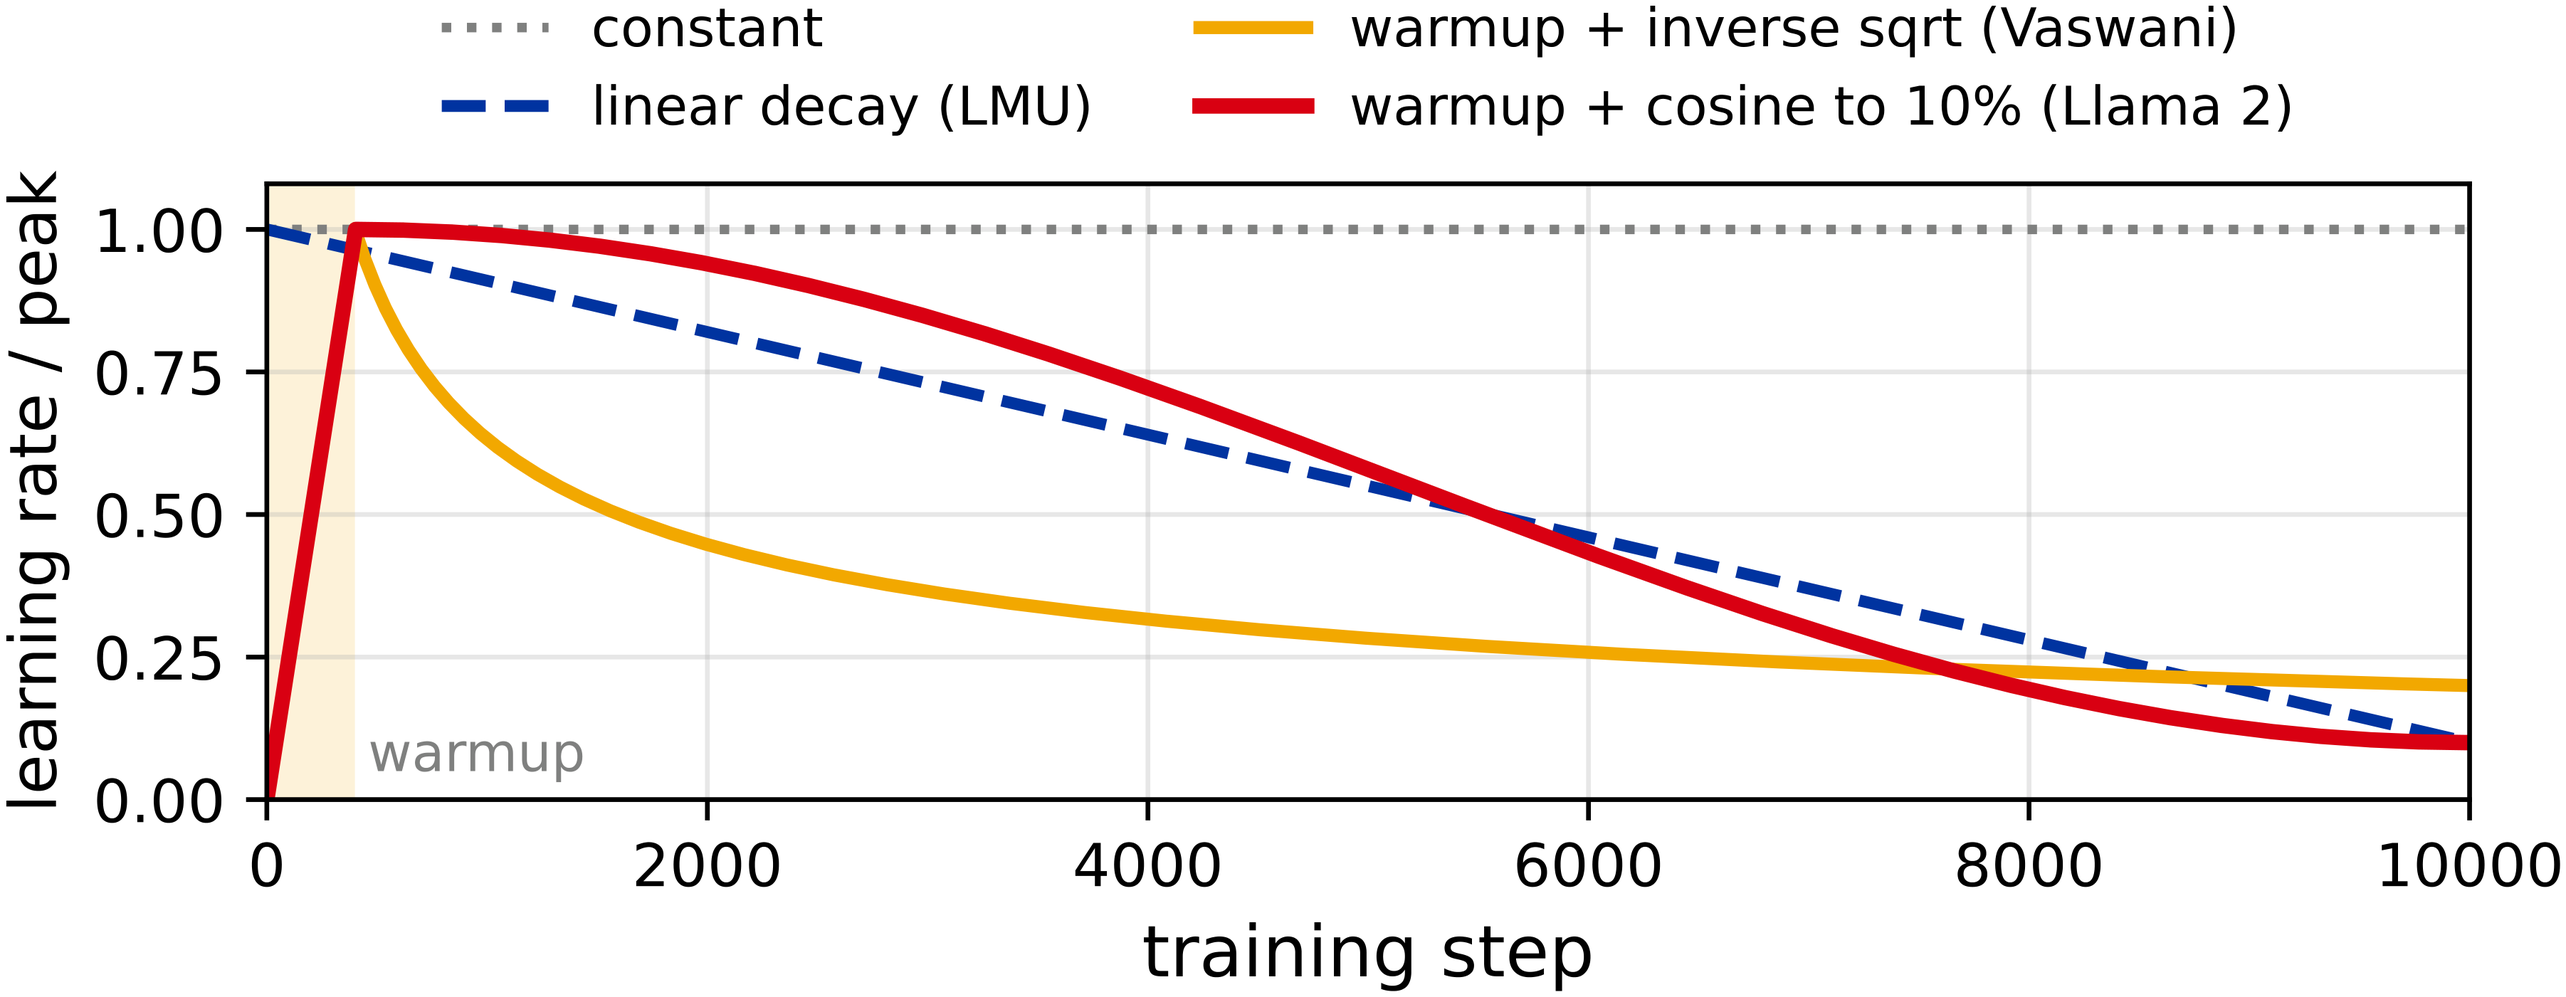
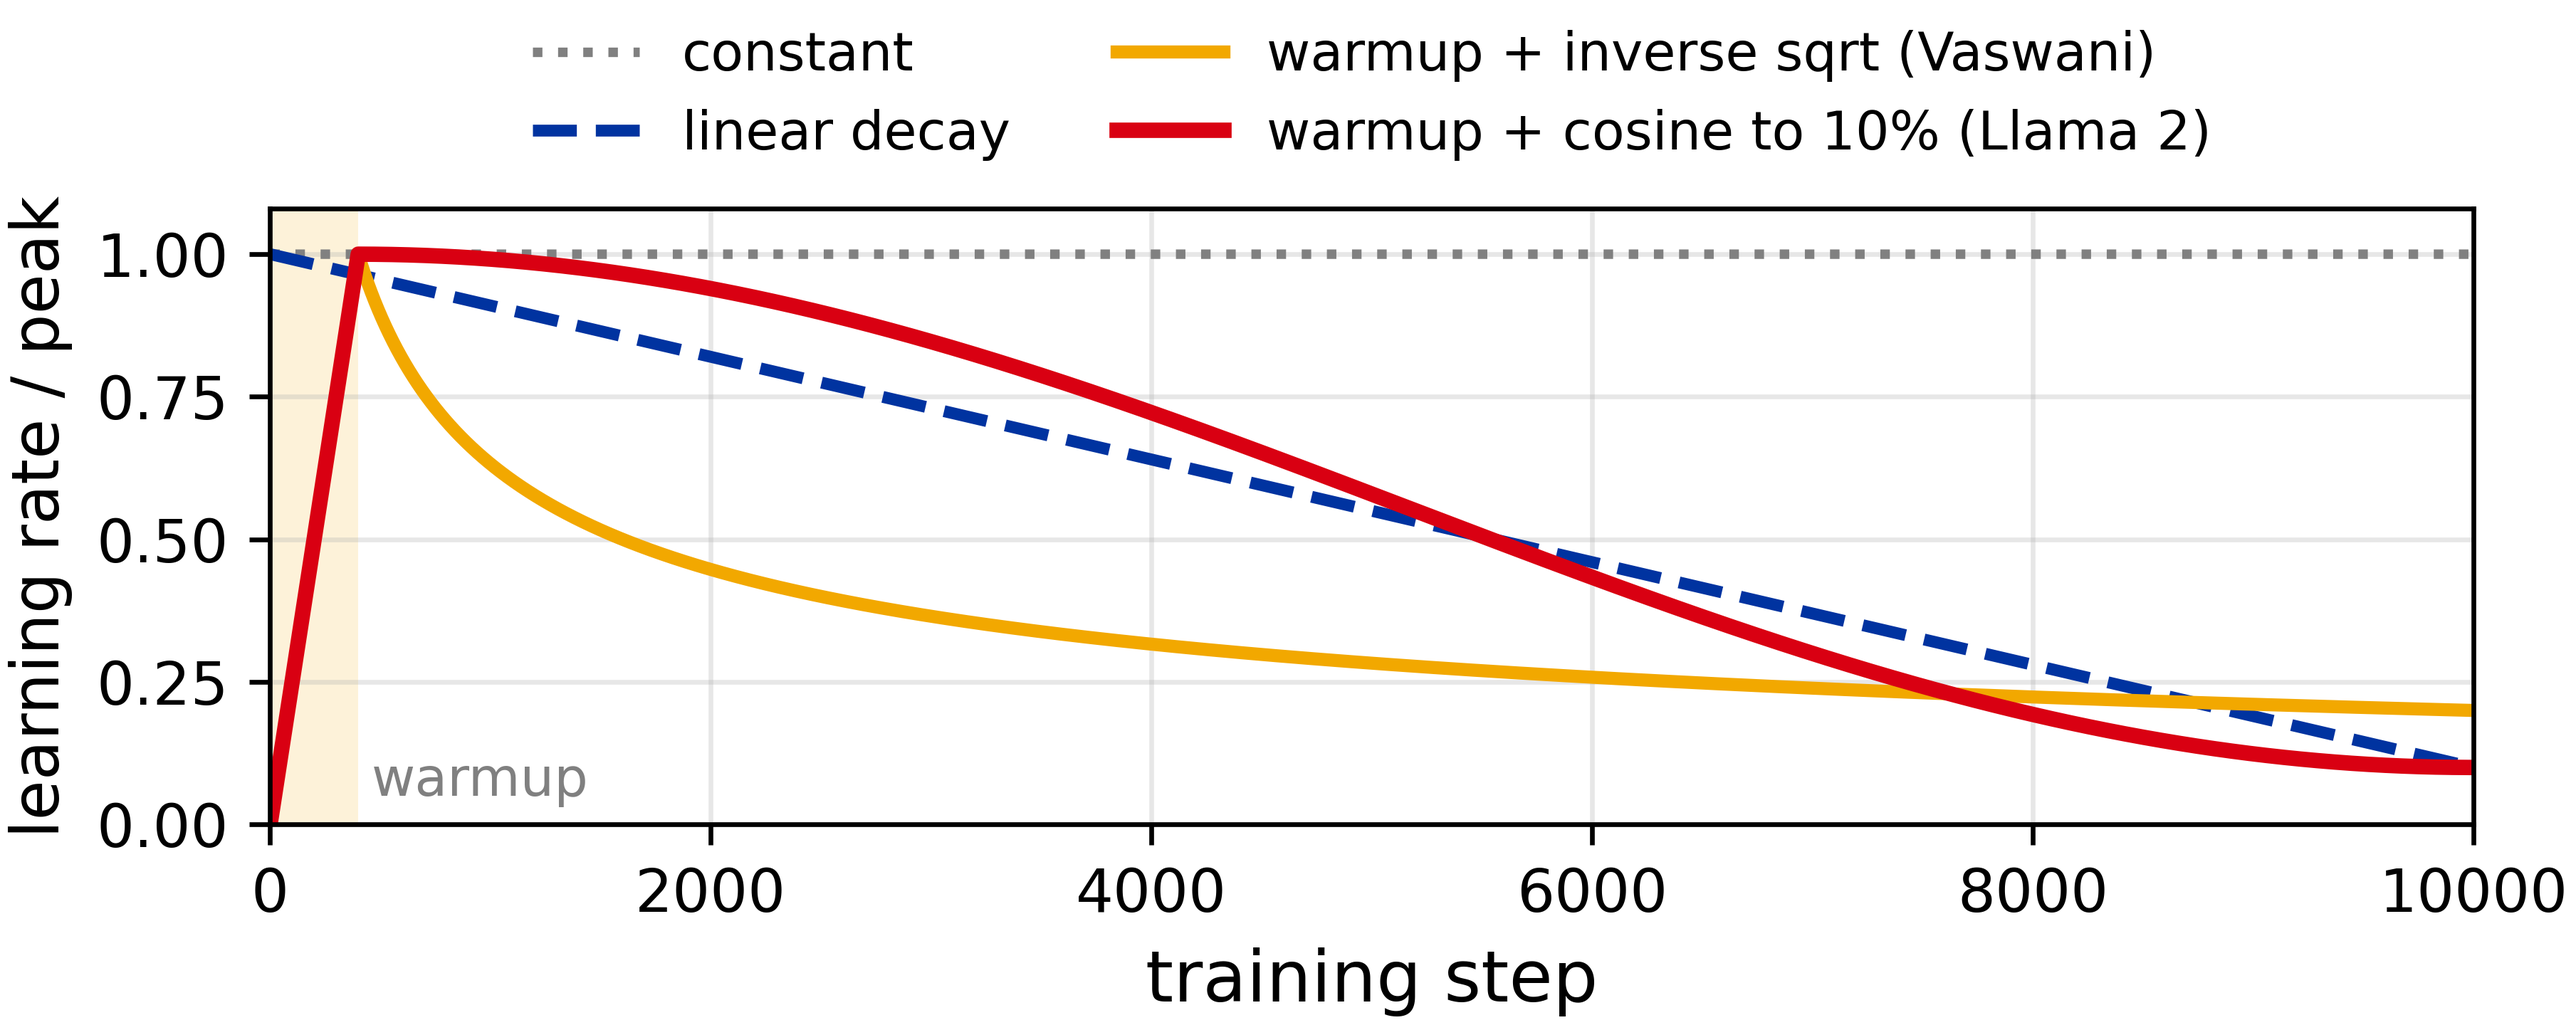
Drop the wrong "(LMU)" attribution from ML44's thumbnail legend
The course figure labels the dashed blue curve "linear decay (LMU)"; the
attribution is not correct, so the thumbnail now says just "linear decay".

Redrawn here rather than in the course repo: regenerating fig/lr_schedules.pdf
there would leave it out of step with the already-published 44_optimization
deck. The curve maths is copied verbatim from that chapter's
py_src/modern_components_figs.py, so the shapes are identical to what the
lecture showed - only the legend text changes. The course source still carries
the "(LMU)" label and is the place to fix it properly.

diff --git a/scripts/non_essential/lr_schedules_asset.py b/scripts/non_essential/lr_schedules_asset.py
@@ -1,0 +1,96 @@
+"""Redraw the ML44 learning-rate-schedule figure as a thumbnail asset.
+
+The course figure (ml/11_neural_networks/fig/lr_schedules.pdf, generated by that
+chapter's py_src/modern_components_figs.py) labels the dashed blue curve
+"linear decay (LMU)". The user flagged that attribution as wrong, so the
+thumbnail needs the same figure with the "(LMU)" dropped.
+
+Rather than edit the course repo - which would leave its regenerated figure out
+of step with the already-published slide deck - this redraws the figure here.
+The curve maths is copied verbatim from `lr_schedule_figure` in that script, so
+the shapes are identical to what the lecture showed; only the legend text and
+the output format differ.
+
+If the course figure itself gets corrected later, delete this and go back to
+    python scripts/pdf_to_asset.py "<ref>/ml/11_neural_networks/fig/lr_schedules.pdf" \
+        thumbnails/assets/ml44_lr_schedules.png --dpi 600
+
+Usage:
+  python scripts/non_essential/lr_schedules_asset.py [--out PATH] [--dpi N]
+"""
+import argparse
+import logging
+import sys
+from pathlib import Path
+
+import matplotlib
+import numpy as np
+
+matplotlib.use("Agg")
+import matplotlib.pyplot as plt  # noqa: E402
+
+if sys.stdout.encoding and sys.stdout.encoding.lower() != "utf-8":
+    sys.stdout.reconfigure(encoding="utf-8", errors="replace")
+if sys.stderr.encoding and sys.stderr.encoding.lower() != "utf-8":
+    sys.stderr.reconfigure(encoding="utf-8", errors="replace")
+
+LOG_DIR = Path("logs")
+LOG_DIR.mkdir(exist_ok=True)
+logging.basicConfig(
+    level=logging.INFO,
+    format="%(asctime)s %(levelname)s %(message)s",
+    handlers=[
+        logging.StreamHandler(sys.stderr),
+        logging.FileHandler(LOG_DIR / "lr_schedules_asset.log", encoding="utf-8"),
+    ],
+)
+log = logging.getLogger(__name__)
+
+# Armenian flag palette, same as the course figure.
+RED, BLUE, ORANGE = "#D90012", "#0033A0", "#F2A800"
+
+
+def main() -> None:
+    p = argparse.ArgumentParser()
+    p.add_argument("--out", type=Path, default=Path("thumbnails/assets/ml44_lr_schedules.png"))
+    p.add_argument("--dpi", type=int, default=600)
+    a = p.parse_args()
+
+    # Schedule SHAPES on an illustrative 10k-step run (warmup stretched to 4% so it is
+    # visible; the papers' real step counts are quoted on the slide, not drawn).
+    total, warm = 10_000, 400
+    t = np.arange(1, total + 1)
+
+    constant = np.ones_like(t, dtype=float)
+    linear = 1.0 - 0.9 * (t - 1) / (total - 1)
+    inv_sqrt = np.minimum(t / warm, np.sqrt(warm / t))                # Vaswani et al. (2017) shape
+    progress = np.clip((t - warm) / (total - warm), 0.0, 1.0)
+    cosine = np.where(t < warm, t / warm, 0.1 + 0.9 * 0.5 * (1 + np.cos(np.pi * progress)))
+
+    fig, ax = plt.subplots(figsize=(6.2, 2.7))
+    ax.axvspan(0, warm, color=ORANGE, alpha=0.15, lw=0)
+    ax.text(warm * 1.15, 0.05, "warmup", fontsize=9, color="gray")
+    ax.plot(t, constant, color="gray", lw=1.6, ls=":", label="constant")
+    ax.plot(t, linear, color=BLUE, lw=2.0, ls="--", label="linear decay")
+    ax.plot(t, inv_sqrt, color=ORANGE, lw=2.2, label="warmup + inverse sqrt (Vaswani)")
+    ax.plot(t, cosine, color=RED, lw=2.6, label="warmup + cosine to 10% (Llama 2)")
+    ax.set_xlabel("training step", fontsize=12)
+    ax.set_ylabel("learning rate / peak", fontsize=11)
+    ax.set_ylim(0, 1.08)
+    ax.set_xlim(0, total)
+    ax.tick_params(labelsize=10)
+    ax.grid(alpha=0.3)
+    ax.legend(frameon=False, fontsize=9, loc="lower center", bbox_to_anchor=(0.5, 1.0), ncol=2)
+
+    fig.tight_layout()
+    a.out.parent.mkdir(parents=True, exist_ok=True)
+    fig.savefig(a.out, dpi=a.dpi, bbox_inches="tight", pad_inches=0.02, facecolor="white")
+    plt.close(fig)
+
+    from PIL import Image
+    w, h = Image.open(a.out).size
+    log.info(f"Wrote {a.out} ({w}x{h}px, aspect {w / h:.2f})")
+
+
+if __name__ == "__main__":
+    main()

diff --git a/scripts/non_essential/README.md b/scripts/non_essential/README.md
@@ -9,4 +9,6 @@ publishing pipeline. Nothing in `scripts/` imports these.
 | `split_figure_panels.py` | Splits one multi-panel course figure PDF into a separate PNG per sub-plot, so `_draw_image_row` can size, space and caption each panel itself. Finds the boundaries by scanning for all-white gutter columns instead of taking crop fractions by eye; `--crop-top` drops the sub-plot title band first, `--keep` picks which panels to write. | Whenever a thumbnail wants some of the panels out of a figure that holds a row of them (used for ML36's eigen-garments, ML37's mammoth, and ML38's Novembre 2008 panel a, where `--crop-bottom` drops the sub-panels below and a raised `--min-width-frac` discards the tiny "a" label). If it finds the wrong number of panels, adjust `--gutter-tol` (how many stray ink pixels a column may hold and still count as a gutter), `--white`, or `--min-width-frac`. Reads figure PDFs and already-raster borrowed PNGs alike; `--page` picks a page past the first, for borrowed slide decks like `lmu_src/*.pdf` (ML40 page 7, ML41 page 6). |
 | `photo_scatter_ml39.py` | Renders the ML39 photo map: the lesson-39 practical's 92 demo photos drawn at their own projected positions instead of as coloured dots. Reads the coordinates and the base64 thumbnails straight out of the notebook's generated Plotly page (`out/demo_photos_map_{pca,umap}.html`), so nothing is recomputed and no umap-learn install is needed. `--figsize` stretches only the positions, never the images, which is how the projection is fitted to a 16:9 thumbnail band. | Re-run if the practical regenerates its maps, or to try `--map umap` / a different `--zoom`. |
 
-Added 2026-08-31 (`quantize_shrek.py`), 2026-09-03 (`split_figure_panels.py`), 2026-09-12 (`photo_scatter_ml39.py`).
+| `lr_schedules_asset.py` | Redraws the ML44 learning-rate-schedule figure straight into `thumbnails/assets/`, with the dashed blue curve labelled just "linear decay". The course figure (`fig/lr_schedules.pdf`, from that chapter's `py_src/modern_components_figs.py`) calls it "linear decay (LMU)"; the user flagged that attribution as wrong, and redrawing here avoids regenerating the course figure out of step with the already-published slide deck. The curve maths is copied verbatim from `lr_schedule_figure`, so the shapes match what the lecture showed. | Re-run if the ML44 thumbnail needs rebuilding. If the course figure itself gets corrected, delete this and go back to `pdf_to_asset.py` on `fig/lr_schedules.pdf`. |
+
+Added 2026-08-31 (`quantize_shrek.py`), 2026-09-03 (`split_figure_panels.py`), 2026-09-12 (`photo_scatter_ml39.py`), 2026-09-21 (`lr_schedules_asset.py`).
